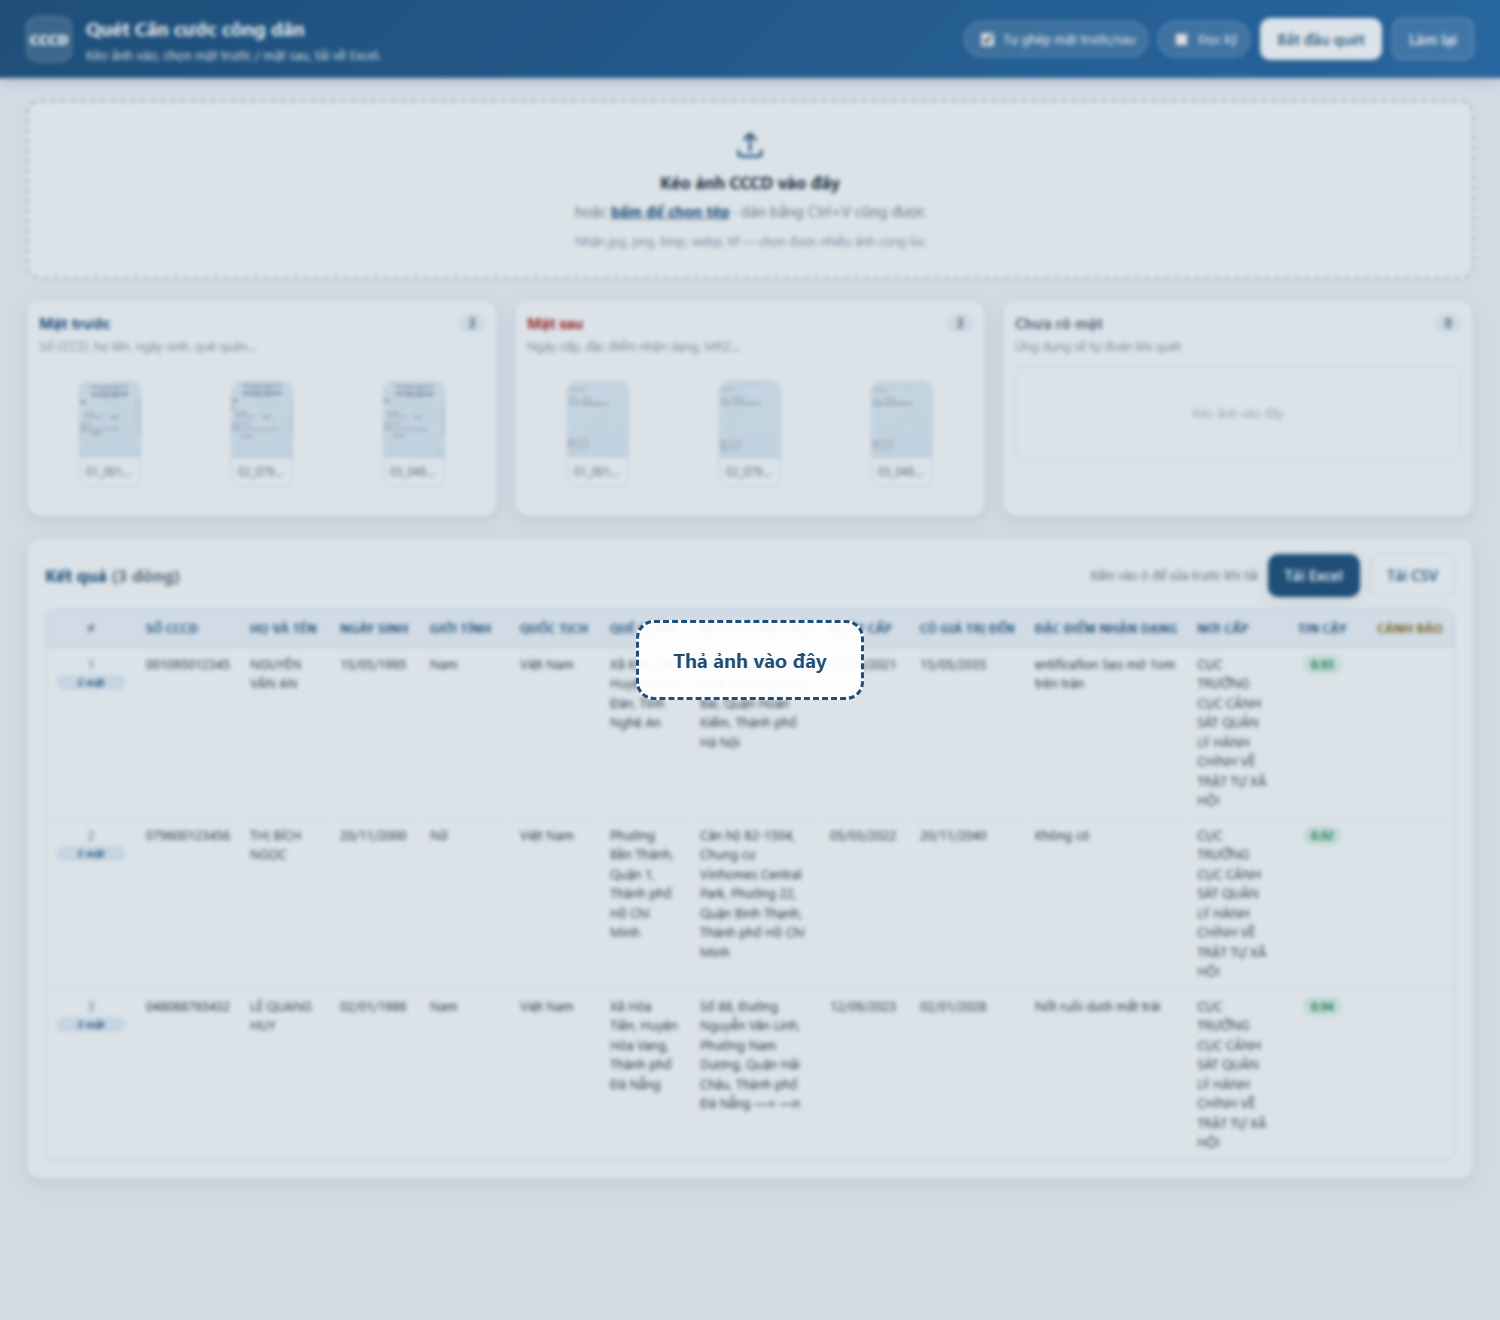
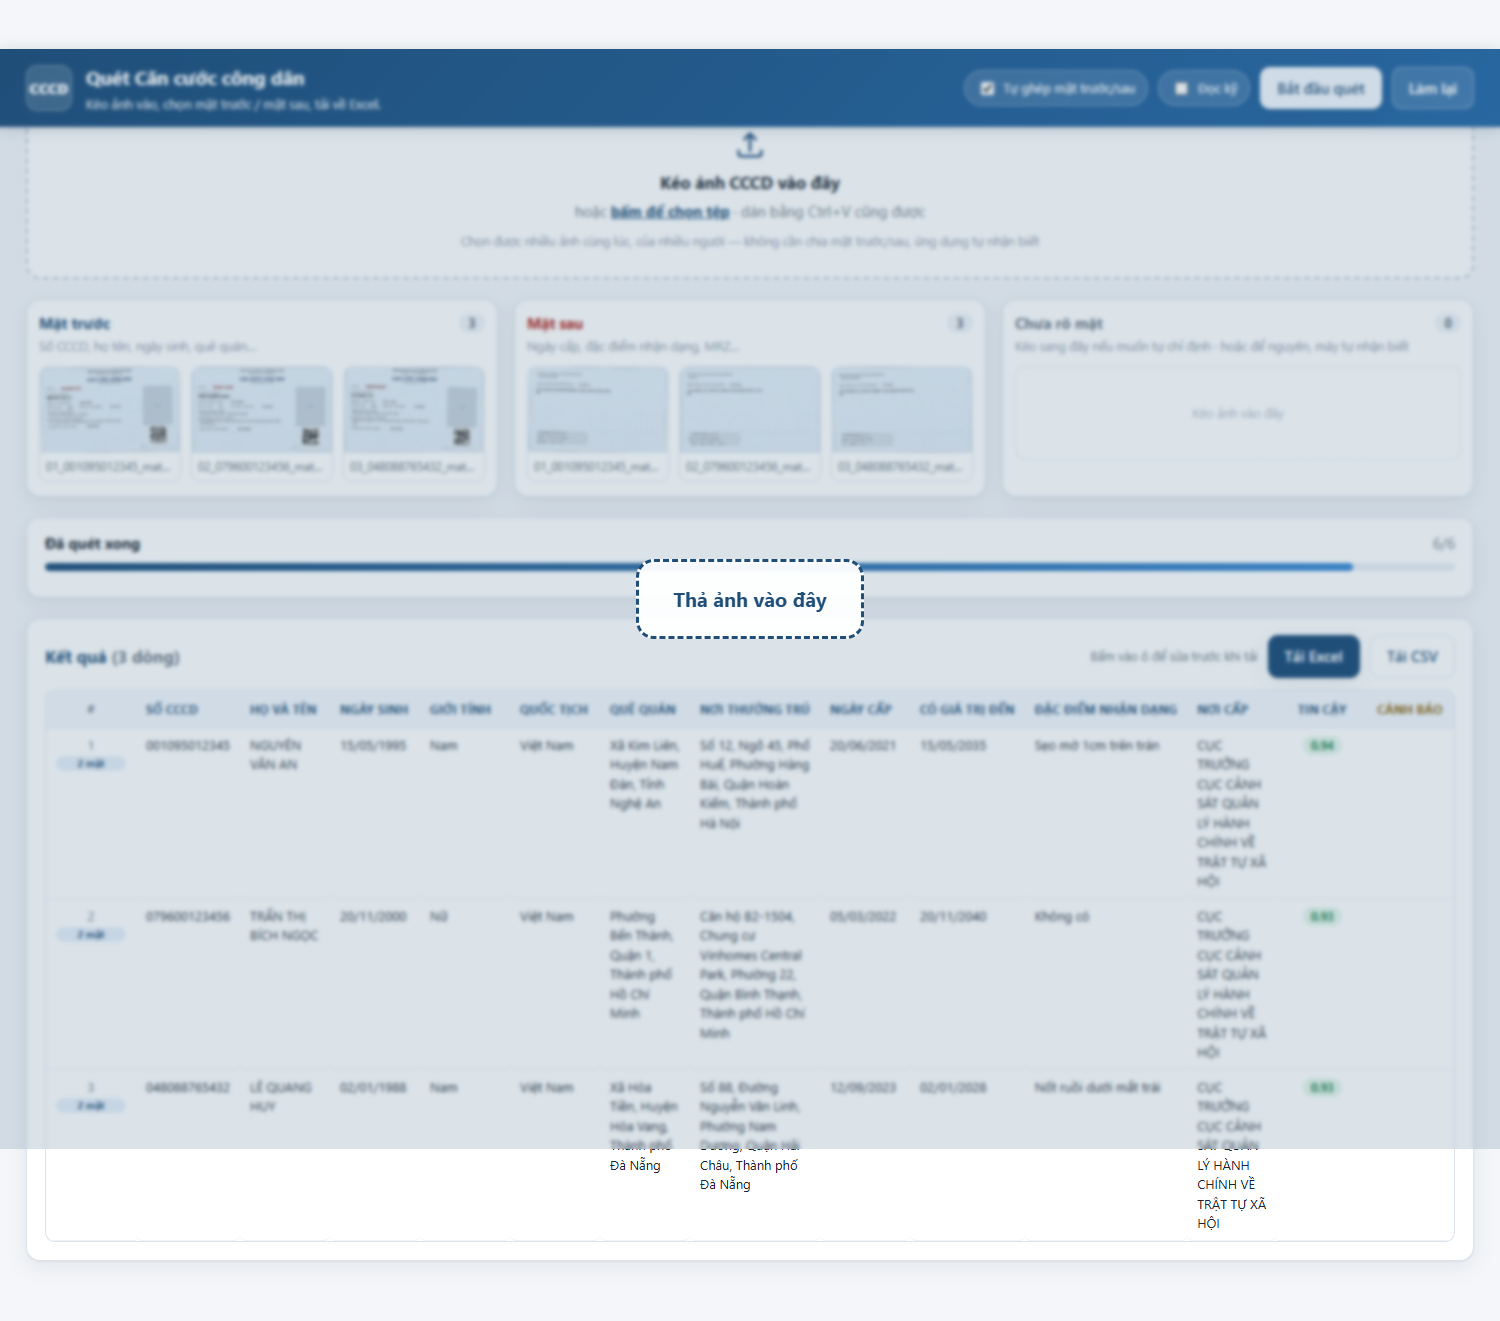
fix(gui): hai loi hien thi that — the bi bop meo va lop phu bi ket
- .card la the <figure> nen thua huong margin 40px hai ben cua trinh duyet:
  trong luoi 142px thi anh chi con 62px, the tro nen nho va lech. Dat margin 0.
- Lop phu 'tha anh vao day' dem dragenter/dragleave nen bi lech (moi phan tu con
  ban mot su kien) -> lop phu mo ket lai che ca trang. Doi sang hen gio 150ms.
- Them nut doi mat (chua ro -> truoc -> sau) tren tung anh, khoi phai keo.
- Noi ro trong giao dien: tha ca lo anh cung luc duoc, khong can chia mat.

diff --git a/cccd_ocr/gui/static/app.js b/cccd_ocr/gui/static/app.js
@@ -136,20 +136,24 @@
     name.textContent = item.name;
     card.appendChild(name);
 
-    const remove = document.createElement("button");
-    remove.className = "remove";
-    remove.type = "button";
-    remove.textContent = "×";
-    remove.title = "Bỏ ảnh này";
-    remove.addEventListener("click", (event) => {
+    const tools = document.createElement("div");
+    tools.className = "tools";
+
+    const flip = document.createElement("button");
+    flip.className = "tool flip";
+    flip.type = "button";
+    flip.textContent = "⇄";
+    flip.title = "Đổi mặt: chưa rõ → mặt trước → mặt sau";
+    flip.addEventListener("click", (event) => {
       event.stopPropagation();
-      removeItem(item.id);
+      const order = ["", "front", "back"];
+      moveItem(item.id, order[(order.indexOf(item.side) + 1) % order.length]);
     });
-    card.appendChild(remove);
+    tools.appendChild(flip);
 
     if (item.remote) {
       const view = document.createElement("button");
-      view.className = "view";
+      view.className = "tool view";
       view.type = "button";
       view.textContent = "⤢";
       view.title = "Xem ảnh gốc";
@@ -157,8 +161,21 @@
         event.stopPropagation();
         window.open(`/api/image/${item.id}`, "_blank", "noopener");
       });
-      card.appendChild(view);
+      tools.appendChild(view);
     }
+
+    const remove = document.createElement("button");
+    remove.className = "tool remove";
+    remove.type = "button";
+    remove.textContent = "×";
+    remove.title = "Bỏ ảnh này";
+    remove.addEventListener("click", (event) => {
+      event.stopPropagation();
+      removeItem(item.id);
+    });
+    tools.appendChild(remove);
+
+    card.appendChild(tools);
 
     card.addEventListener("dragstart", (event) => {
       event.dataTransfer.setData("text/plain", item.id);
@@ -233,37 +250,53 @@
   // ------------------------------------------------------------ kéo & thả
 
   function setupDragAndDrop() {
-    let dragDepth = 0;
+    // Đếm dragenter/dragleave rất dễ lệch (mỗi phần tử con bắn một sự kiện),
+    // làm lớp phủ mờ bị kẹt lại và che cả trang. Dùng hẹn giờ: còn nhận được
+    // dragover thì còn hiện, im lặng 150ms thì tự ẩn.
+    let hideTimer = null;
 
-    ["dragenter", "dragover"].forEach((type) => {
-      document.addEventListener(type, (event) => {
-        if (!event.dataTransfer || !Array.from(event.dataTransfer.types).includes("Files")) {
-          return;
-        }
-        event.preventDefault();
-        if (type === "dragenter") dragDepth += 1;
-        els.overlay.hidden = false;
-      });
+    function showOverlay() {
+      els.overlay.hidden = false;
+      clearTimeout(hideTimer);
+      hideTimer = setTimeout(hideOverlay, 150);
+    }
+
+    function hideOverlay() {
+      clearTimeout(hideTimer);
+      els.overlay.hidden = true;
+      $$(".column.is-over, .dropzone.is-over").forEach((el) => el.classList.remove("is-over"));
+    }
+
+    function carriesFiles(event) {
+      return Boolean(event.dataTransfer)
+        && Array.from(event.dataTransfer.types).includes("Files");
+    }
+
+    document.addEventListener("dragover", (event) => {
+      if (!carriesFiles(event)) return;
+      event.preventDefault();
+      showOverlay();
+    });
+
+    document.addEventListener("dragenter", (event) => {
+      if (!carriesFiles(event)) return;
+      event.preventDefault();
+      showOverlay();
     });
 
     document.addEventListener("dragleave", (event) => {
-      if (!event.dataTransfer || !Array.from(event.dataTransfer.types).includes("Files")) {
-        return;
-      }
-      dragDepth = Math.max(0, dragDepth - 1);
-      if (dragDepth === 0) {
-        els.overlay.hidden = true;
-        $$(".column.is-over, .dropzone.is-over").forEach((el) => el.classList.remove("is-over"));
-      }
+      if (!carriesFiles(event)) return;
+      // relatedTarget null = đã ra khỏi cửa sổ trình duyệt
+      if (event.relatedTarget === null) hideOverlay();
     });
+
+    document.addEventListener("dragend", hideOverlay);
 
     document.addEventListener("drop", (event) => {
       const files = event.dataTransfer && event.dataTransfer.files;
       const internalId = event.dataTransfer && event.dataTransfer.getData("text/plain");
       event.preventDefault();
-      dragDepth = 0;
-      els.overlay.hidden = true;
-      $$(".column.is-over, .dropzone.is-over").forEach((el) => el.classList.remove("is-over"));
+      hideOverlay();
 
       const zone = event.target.closest("[data-side]");
       const side = zone ? zone.dataset.side : "";
@@ -275,13 +308,13 @@
       }
     });
 
-    // Thả thẻ giữa các cột
+    // Cho phép thả lên từng cột
     $$(".column, .dropzone").forEach((zone) => {
       zone.addEventListener("dragover", (event) => {
         const data = event.dataTransfer;
         if (!data) return;
-        const internal = Array.from(data.types).includes("text/plain");
-        if (!internal && !Array.from(data.types).includes("Files")) return;
+        const types = Array.from(data.types);
+        if (!types.includes("text/plain") && !types.includes("Files")) return;
         event.preventDefault();
         zone.classList.add("is-over");
       });

diff --git a/cccd_ocr/gui/static/style.css b/cccd_ocr/gui/static/style.css
@@ -206,7 +206,7 @@ main { padding: 22px 26px 60px; max-width: 1720px; margin: 0 auto; }
 
 .cards {
   display: grid;
-  grid-template-columns: repeat(auto-fill, minmax(122px, 1fr));
+  grid-template-columns: repeat(auto-fill, minmax(132px, 1fr));
   gap: 10px;
   min-height: 92px;
 }
@@ -226,6 +226,7 @@ main { padding: 22px 26px 60px; max-width: 1720px; margin: 0 auto; }
 
 .card {
   position: relative;
+  margin: 0;                 /* <figure> mặc định có margin 40px hai bên -> thẻ bị bóp méo */
   border: 1px solid var(--border);
   border-radius: 10px;
   overflow: hidden;
@@ -238,11 +239,12 @@ main { padding: 22px 26px 60px; max-width: 1720px; margin: 0 auto; }
 .card img {
   display: block;
   width: 100%;
-  height: 76px;
+  height: 86px;
   object-fit: cover;
   background: #eef1f5;
 }
 .card .name {
+  margin: 0;
   padding: 5px 6px 6px;
   font-size: 11.5px;
   color: var(--muted);
@@ -250,28 +252,18 @@ main { padding: 22px 26px 60px; max-width: 1720px; margin: 0 auto; }
   overflow: hidden;
   text-overflow: ellipsis;
 }
-.card .remove {
+.card .tools {
   position: absolute;
-  top: 4px; right: 4px;
-  width: 20px; height: 20px;
-  display: grid;
-  place-items: center;
-  border: none;
-  border-radius: 50%;
-  background: rgba(20, 30, 45, .62);
-  color: #fff;
-  font-size: 13px;
-  line-height: 1;
-  cursor: pointer;
+  top: 4px;
+  right: 4px;
+  display: flex;
+  gap: 4px;
   opacity: 0;
   transition: opacity .12s ease;
 }
-.card:hover .remove { opacity: 1; }
-.card .remove:hover { background: var(--red); }
+.card:hover .tools, .card:focus-within .tools { opacity: 1; }
 
-.card .view {
-  position: absolute;
-  top: 4px; left: 4px;
+.card .tool {
   width: 20px; height: 20px;
   display: grid;
   place-items: center;
@@ -279,14 +271,12 @@ main { padding: 22px 26px 60px; max-width: 1720px; margin: 0 auto; }
   border-radius: 50%;
   background: rgba(20, 30, 45, .62);
   color: #fff;
-  font-size: 11px;
+  font-size: 12px;
   line-height: 1;
   cursor: pointer;
-  opacity: 0;
-  transition: opacity .12s ease;
 }
-.card:hover .view { opacity: 1; }
-.card .view:hover { background: var(--navy); }
+.card .tool:hover { background: var(--navy); }
+.card .tool.remove:hover { background: var(--red); }
 
 .card.uploading img { filter: grayscale(1); opacity: .5; }
 .card .spinner {

diff --git a/cccd_ocr/gui/static/index.html b/cccd_ocr/gui/static/index.html
@@ -38,7 +38,7 @@
     </svg>
     <p class="dz-title">Kéo ảnh CCCD vào đây</p>
     <p class="dz-sub">hoặc <button type="button" id="btn-pick" class="link">bấm để chọn tệp</button> · dán bằng Ctrl+V cũng được</p>
-    <p class="dz-hint">Nhận jpg, png, bmp, webp, tif — chọn được nhiều ảnh cùng lúc</p>
+    <p class="dz-hint">Chọn được nhiều ảnh cùng lúc, của nhiều người — không cần chia mặt trước/sau, ứng dụng tự nhận biết</p>
     <input type="file" id="file-input" accept="image/*" multiple hidden>
   </section>
 
@@ -66,7 +66,7 @@
         <h2>Chưa rõ mặt</h2>
         <span class="count" data-count="">0</span>
       </header>
-      <p class="column-hint">Ứng dụng sẽ tự đoán khi quét</p>
+      <p class="column-hint">Kéo sang đây nếu muốn tự chỉ định · hoặc để nguyên, máy tự nhận biết</p>
       <div class="cards" data-list=""></div>
     </article>
   </section>
